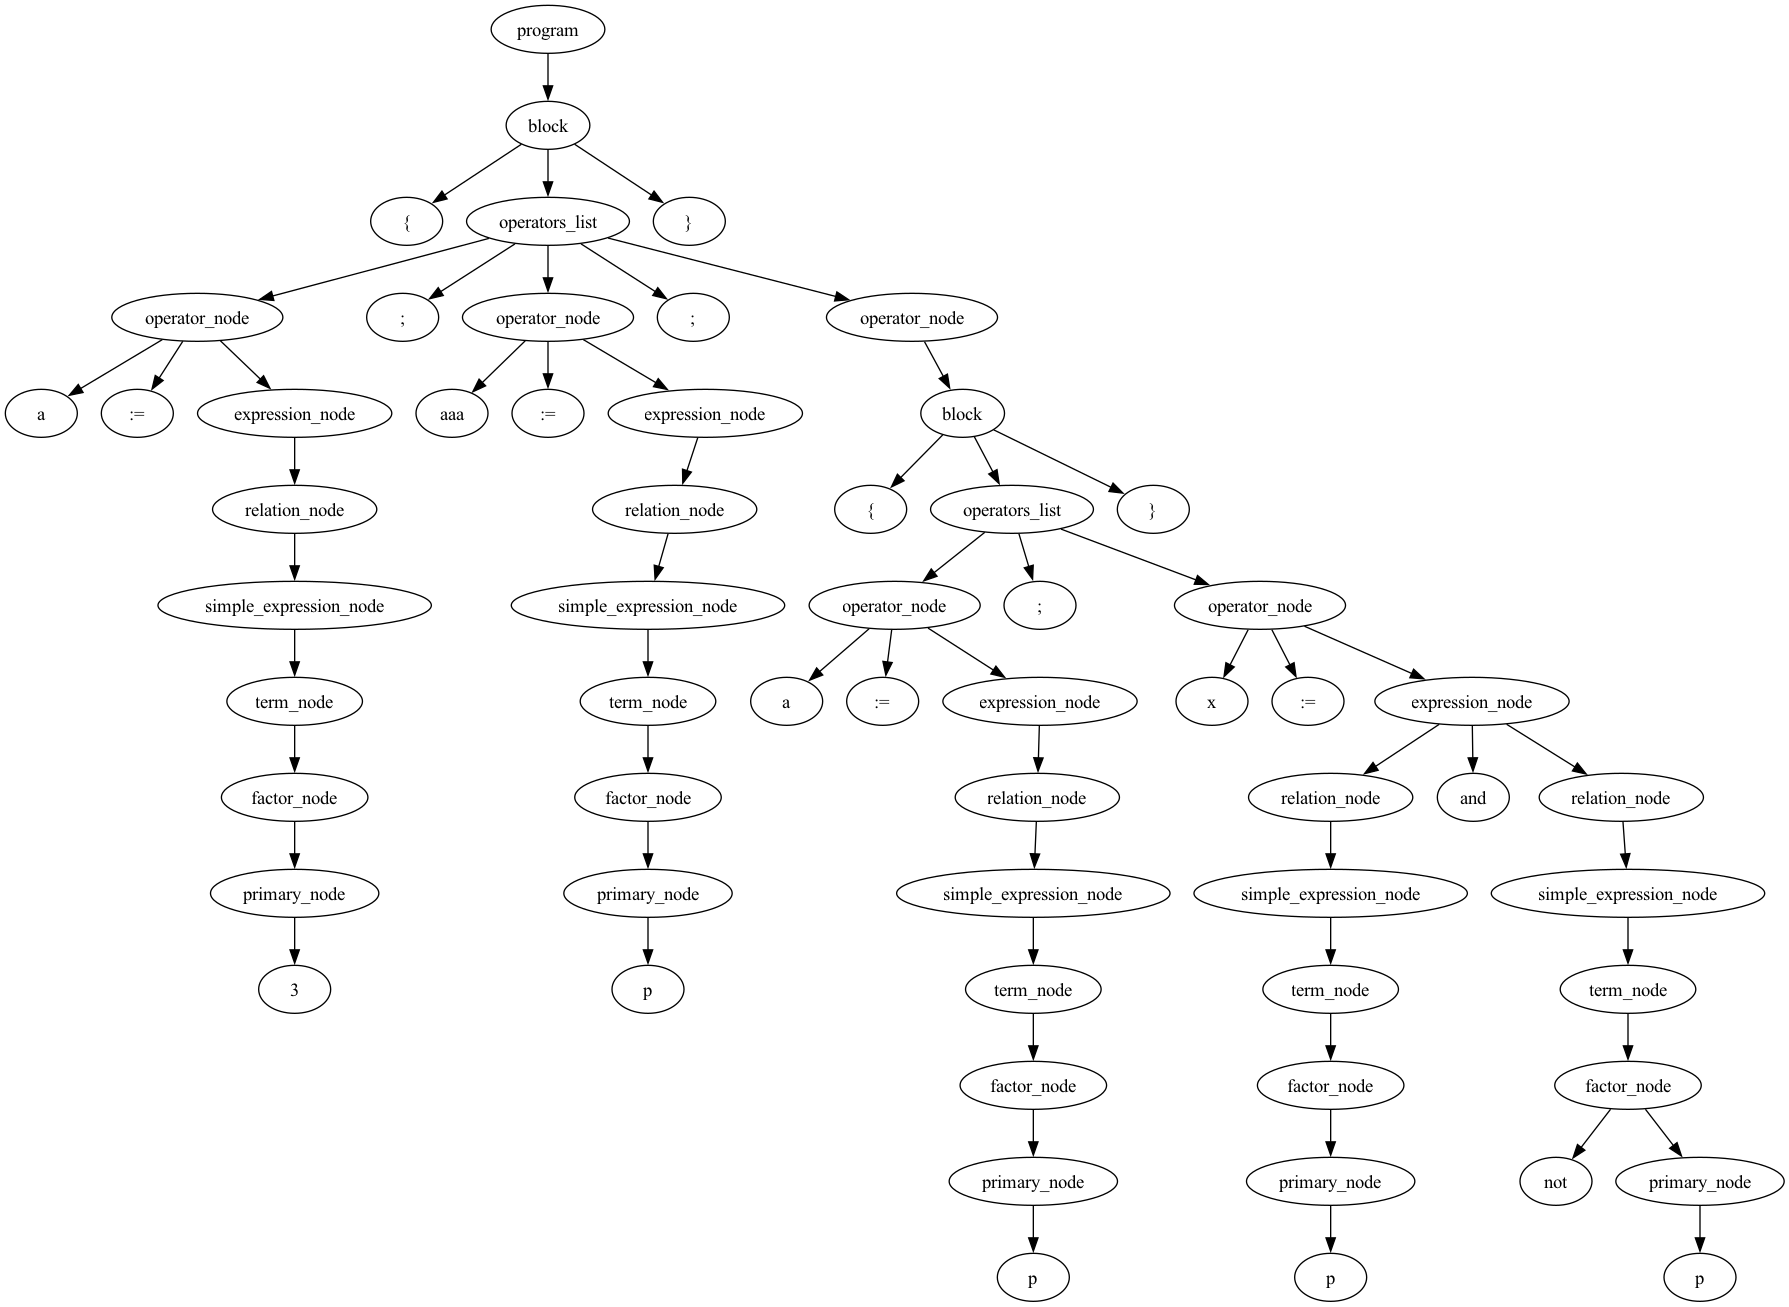
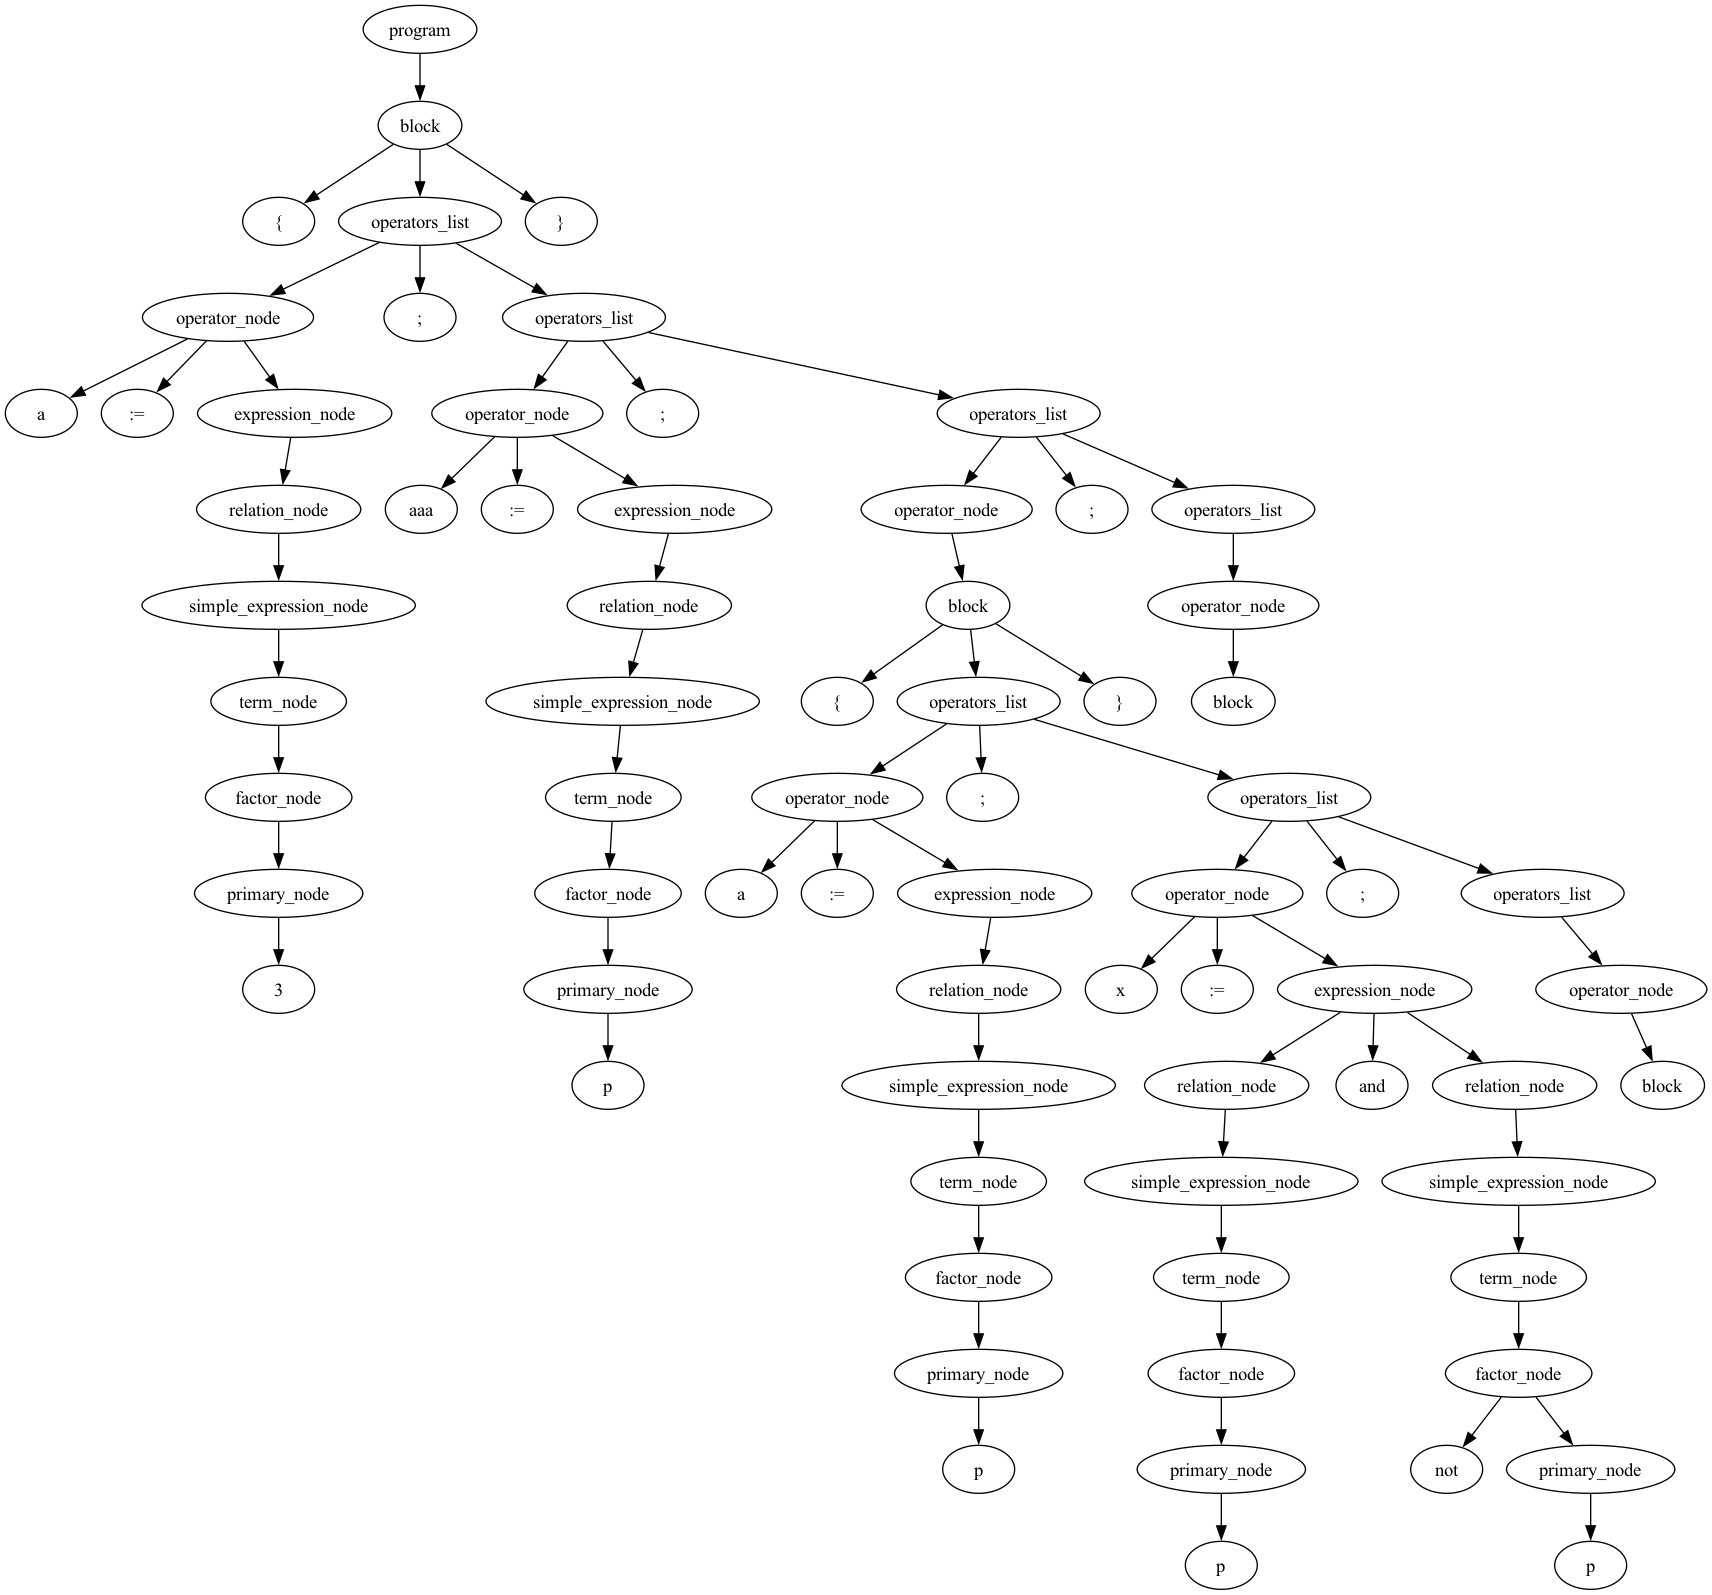
working new logics

diff --git a/lab_3/vizual.py b/lab_3/vizual.py
@@ -39,11 +39,6 @@ class Parser:
             return True
         return False
 
-    def __error(self):
-        print()
-        print('ERROR: Syntax error on', self.i, "| elem =", self.input[self.i - 1])
-        exit()
-
     def __get_current_token(self):
         if self.i < len(self.input):
             return self.input[self.i]
@@ -64,46 +59,64 @@ class Parser:
                 if self.__get_current_token() == '}':
                     right_brack_node = self.__create_new_node(parent_id = block_node.id, id=self.__get_new_node_id(), value='}')
                     print("block", self.__get_current_token())
+                    self.i += 1
                     return True
                 else:
                     self.__error()
             self.__error()
 
+    def __error(self, msg=""):
+        print()
+        print('ERROR: Syntax error on', self.i, "| elem =", self.input[self.i - 1], "|", msg)
+        exit()
+
+    
     def __operators_list(self, parent_node):
-        __operators_list_node = self.__create_new_node(parent_id = parent_node.id, id=self.__get_new_node_id(), value='operators_list')
+        operators_list_node = self.__create_new_node(parent_id=parent_node.id, id=self.__get_new_node_id(), value='operators_list')
         
-        if self.__operator(__operators_list_node):
+        if self.__operator(operators_list_node):
             print("operator", self.__get_current_token())
+            
+            nextTok = self.__get_current_token()
 
-            if self.__tail(__operators_list_node):
-                print("tail", self.__get_current_token())
-                return True
+            print ("DET ", nextTok)
+            if nextTok != ';':
+                self.__error('Error in ;')
 
-            self.__error()
-        self.__error()
+            self.__create_new_node(parent_id=operators_list_node.id, id=self.__get_new_node_id(), value=';')
+            
+            self.i += 1
+            self.__operators_list(operators_list_node)
+        
+        return True
 
     def __operator(self, parent_node):
-        operator_node = self.__create_new_node(parent_id = parent_node.id, id=self.__get_new_node_id(), value='operator_node')
+        operator_node = self.__create_new_node(parent_id=parent_node.id, id=self.__get_new_node_id(), value='operator_node')
 
         if self.__get_current_token().isalpha():
-            operator_node_value = self.__create_new_node(parent_id = operator_node.id, id=self.__get_new_node_id(), value=self.__get_current_token())
+            operator_node_value = self.__create_new_node(parent_id=operator_node.id, id=self.__get_new_node_id(), value=self.__get_current_token())
             print("operator", self.__get_current_token())
             self.i += 1
 
             if self.__get_current_token() == ':=':
-                operator_node_value = self.__create_new_node(parent_id = operator_node.id, id=self.__get_new_node_id(), value=':=')
+                operator_node_value = self.__create_new_node(parent_id=operator_node.id, id=self.__get_new_node_id(), value=':=')
                 print("operator", self.__get_current_token())
                 self.i += 1
 
                 if self.__expression(operator_node):
                     return True
                 
-                self.__error()
-            self.__error()
+                self.__error('Error in expression')
+            
+            self.__error('Expected ":=" after identifier')
         elif self.__block(operator_node):
             return True
-        else:
-            return self.__error()
+        elif self.__get_current_token() != ";":
+            print(self.__get_current_token())
+            # self.__error('Invalid operator')
+
+        
+
 
     def __factor(self, parent_node):
         factor_node = self.__create_new_node(parent_id = parent_node.id, id=self.__get_new_node_id(), value='factor_node')
@@ -228,21 +241,6 @@ class Parser:
             return True
         else:
             self.__error()
-
-    def __tail(self, parent_node):
-        if self.__get_current_token() == ';':
-            tail_node = self.__create_new_node(parent_id = parent_node.id, id=self.__get_new_node_id(), value=';')    
-            self.i += 1
-
-            if self.__operator(parent_node):
-                print("operator", self.__get_current_token())
-                
-                if self.__tail(parent_node):
-                    print("tail", self.__get_current_token())
-                    return True
-                self.__error()
-            self.__error()
-        return True
 
     def render_tree(self):
         print(self.node_lst)

diff --git a/lab_3/main.py b/lab_3/main.py
@@ -2,14 +2,48 @@
 from vizual import Parser
 
 tests = [
-    '{ a := 3 ; aaa := p ; { a := p ; x := p and not p ; } }' # неверно
-    #'{ a := 3 ; aaa := p ; { a := p ; x := p and not p } }' # верно
-    # '{ a := ( abs p and ( 1 ** 25 ) ) }', 
-    # '{ a := 1 and - ( + p and 1 ** 2 ** 455 ) }', 
-    # '{ c := not ( p mod 5 / ( 2 + 2 ) ) }', 
-    # '{ c := abs ( - p + 2 & 4 mod 5 / ( 2 ) ) }', 
-    # '{ ll := ( p and - 22 ) }'
+    '{ a := 3 ; aaa := p ; { a := p ; x := p and not p ; } ; } ;' # верно по 
+    # """
+    # {
+    #     a := 3 ;
+    #     aaa := p ;
+    #     { 
+    #         a := p ;
+    #         x := p and not p ;
+    #     } ;
+    # } 
+    # """ # верно
+    #'{ a := ( abs p and ( 1 ** 25 ) ) }', 
+    #'{ a := 1 and - ( + p and 1 ** 2 ** 455 ) }', 
+    #'{ c := not ( p mod 5 / ( 2 + 2 ) ) }', 
+    #'{ c := abs ( - p + 2 & 4 mod 5 / ( 2 ) ) }', 
+    #'{ ll := ( p and - 22 ) }'
 ]
+
+# Было
+
+# <блок>
+#     { <список операторов> }
+
+# <список операторов> 
+#     <оператор> <хвост>
+
+# <хвост>
+#     ; <оператор> <хвост> | e
+
+# <оператор>
+#     <идентификатор> = <выражение> | <блок>
+
+# Стало
+# <блок>
+#     { <список операторов> }
+
+# <список операторов> 
+#     <оператор> ; <список операторов> | e
+
+# <оператор>
+#     <идентификатор> = <выражение> | <блок>
+
 
 def main(input_string):
     input_string_split = list(input_string.strip().split())
